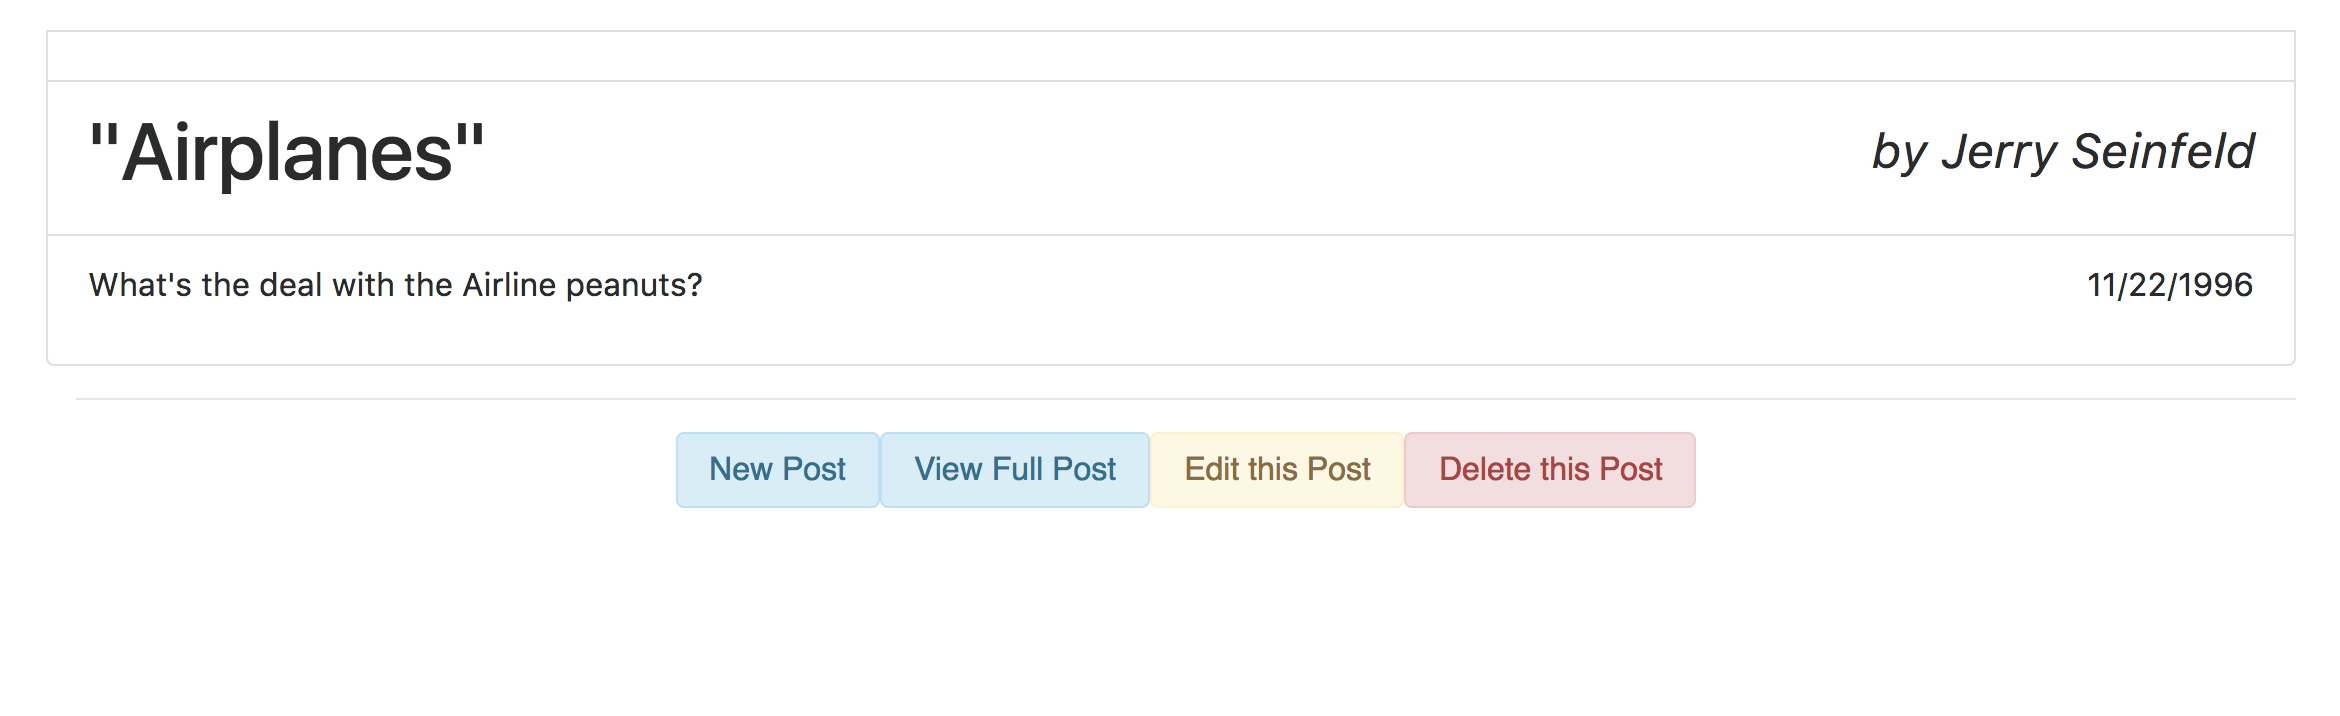
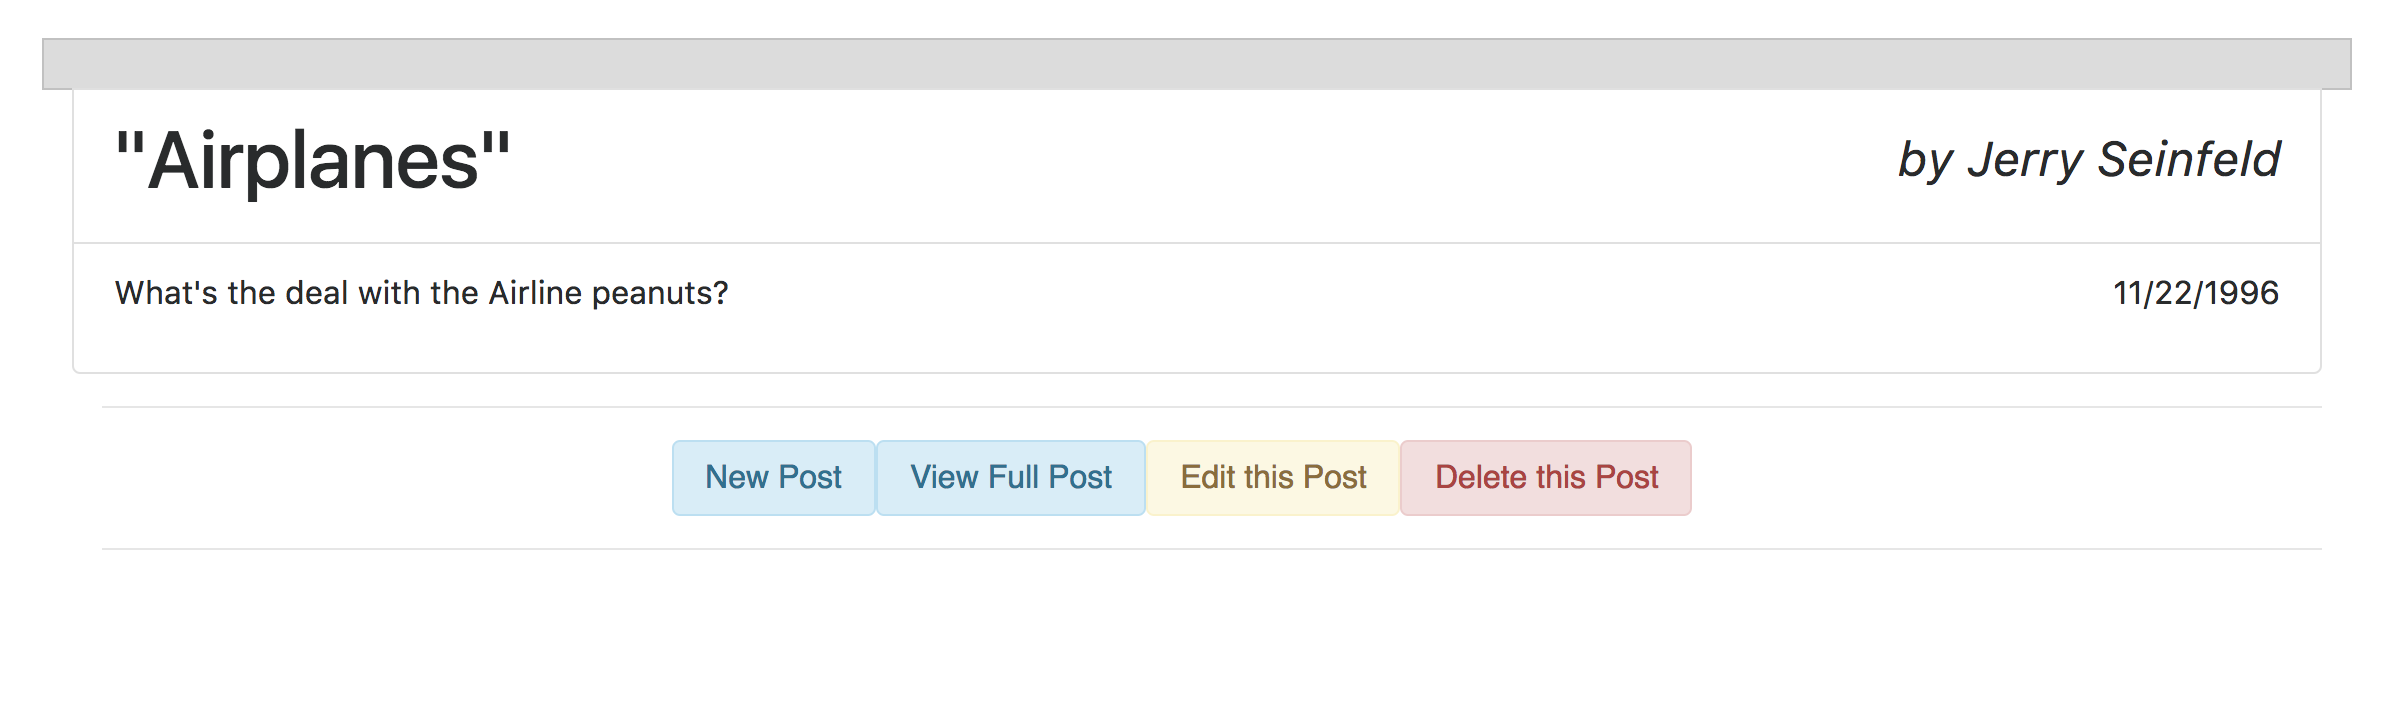
update images

diff --git a/views/index.css b/views/index.css
@@ -1,0 +1,3 @@
+#overrides .gutter {
+  background-color: gainsboro;
+}
